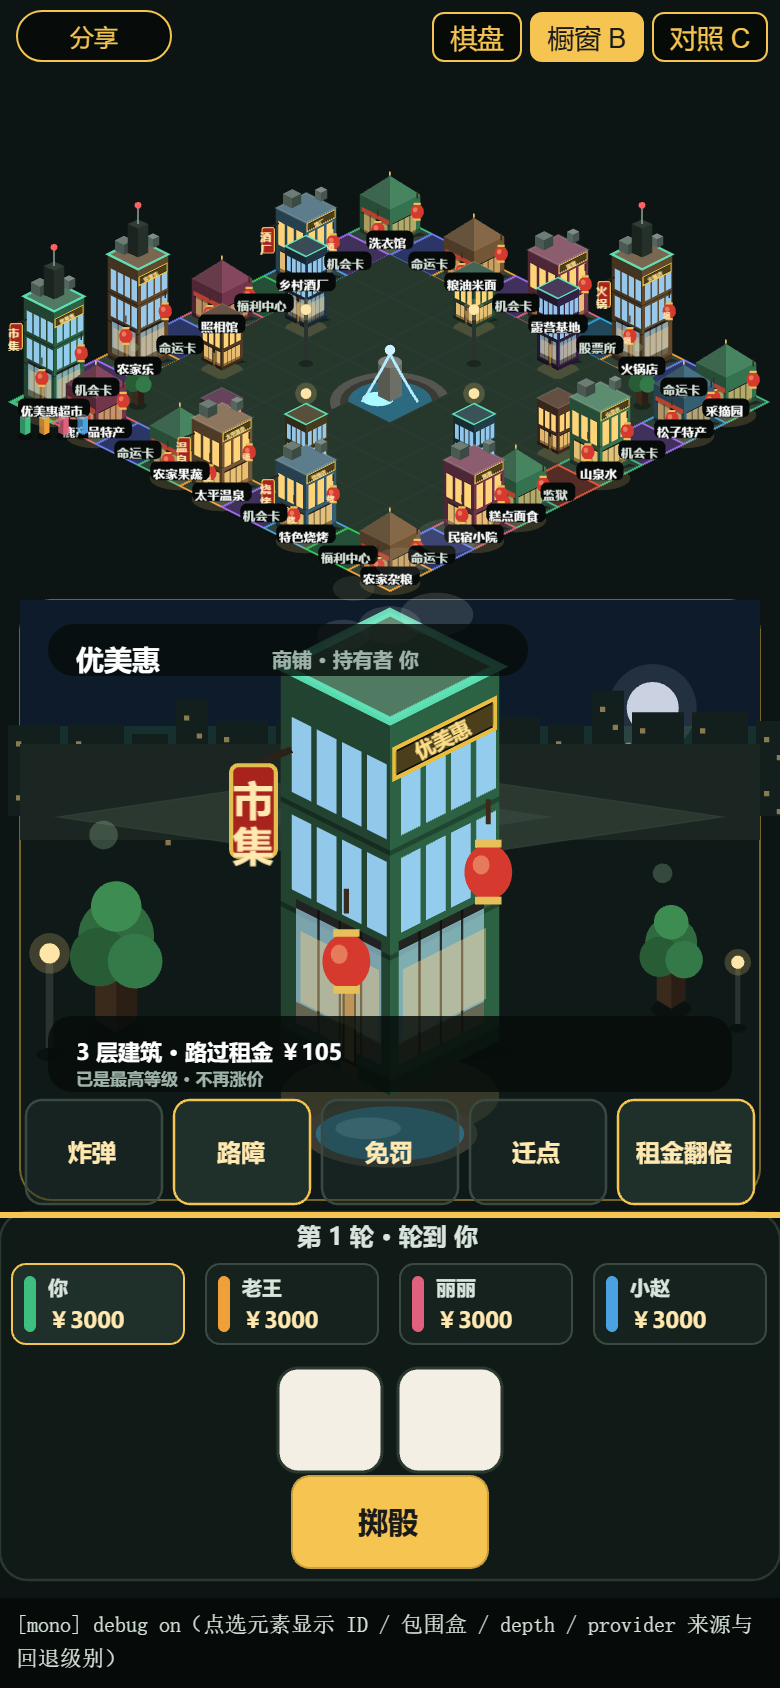
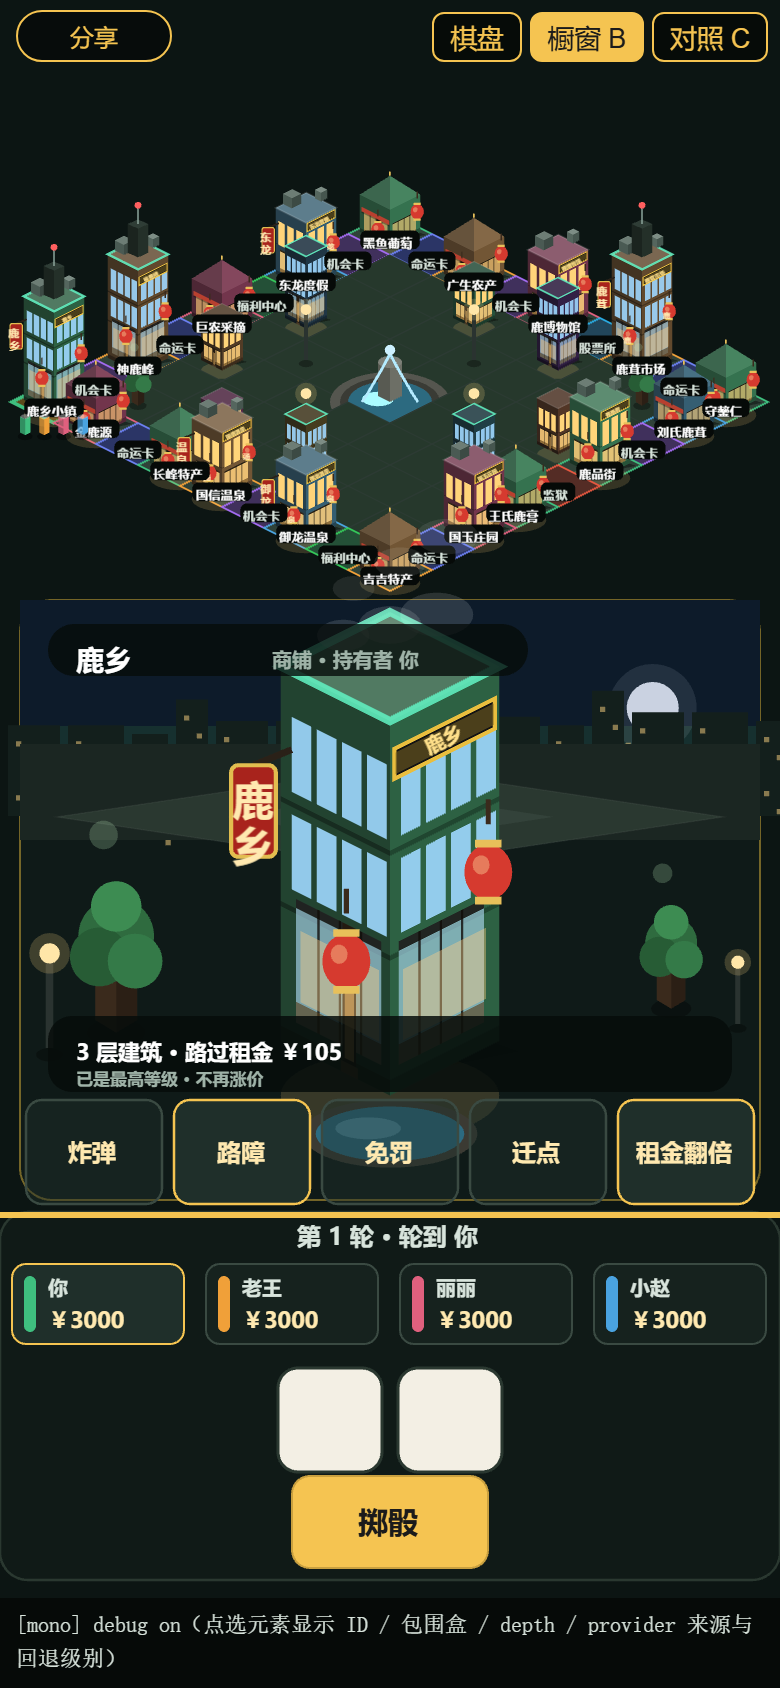
chore(mono): 商家名单授权放行 + 部署线上（ts 20260929-064040）
src/data/board.ts 文件头授权告警由「未授权·禁止部署」改为「已获授权·已公开部署」；docs/manual-mono.md §4 授权守卫同步解除，补 §4.4 执行记录与 M7 最新部署记录。

线上回归 local/mono-prod-check.mjs 退出码 0、7 项 gate 全绿；mono-prod-01..03 截图随本次线上画面更新。

diff --git a/monopoly/src/data/board.ts b/monopoly/src/data/board.ts
@@ -1,10 +1,11 @@
 /**
- * ⚠ 授权状态：候选清单 · 待确认（NOT AUTHORIZED FOR PUBLIC DEPLOY）
+ * ✅ 授权状态：已获授权 · 已公开部署（AUTHORIZED · DEPLOYED 2026-09-29）
  *
- * 本文件的 32 格商家名称是按公开资料整理的「长春市双阳区候选清单」，
- * **尚未取得任何商家授权，亦未经业主核准**。在取得商家书面授权 + 业主确认之前，
- * **禁止公开部署**（不得执行 `node scripts/deploy-mono.mjs`，线上须沿用占位名）。
+ * 本文件的 32 格商家名称是按公开资料整理的「长春市双阳区候选清单」。
+ * 业主已于 2026-09-29 确认**已取得商家书面授权 + 业主核准**并放行公开部署，
+ * 线上 <https://game.joho.cn/tour/mono.html> 自本次部署起显示下列真名。
  * 授权与命名依据见 `docs/manual-mono.md` §4「替换为真实双阳商家数据」的对照表。
+ * 后续增补 / 撤换商家，仍须走「取得授权 → 改数据或 `public/config/shops.json` → 部署」流程。
  */
 export const BOARD_COLS = 9;
 export const BOARD_ROWS = 9;
